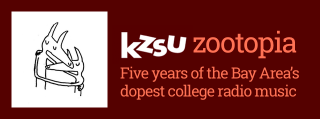
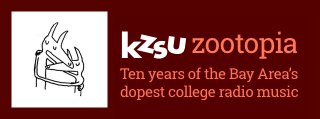
minor updates    - new header images    - clicking on header goes to main kzsu page    - add ability to spoof Zookeeper's onnow feed for testing

diff --git a/server/templates/index.html b/server/templates/index.html
@@ -76,6 +76,10 @@ div.control-container > h4 {
   border: 0px;
 }
 
+#image-header:hover {
+  cursor: pointer;
+}
+
 .is-paused {
   background-image: url("/images/play_button.png");
 }
@@ -168,8 +172,10 @@ div.control-container > h4 {
 <!-- <button onclick='checkSongs()'>Check Songs</button></br> -->
 
 <div class='top-container'>
-    <header>
-        <img id='current-song' alt="Current Song" src="/images/current-song.jpg">
+    <header id='image-header'>
+        <a href="#'>
+            <img id='current-song' alt="Current Song" src="/images/current-song.jpg">
+        </a>
     </header>
  
     <audio id='audio-player' class='audio_volume_only preload='none'>
@@ -198,6 +204,9 @@ div.control-container > h4 {
 </div>
 
 <script>
+document.getElementById('image-header').addEventListener('click', function(event) {
+    location.assign("http://kzsu.stanford.edu")
+});
 document.getElementById('play-but').addEventListener('click', function(event) {
     srcUrl = "http://171.66.118.110:8080/kzsu-3-128.mp3";
     let player = document.getElementById('audio-player');

diff --git a/server/zootopia.py b/server/zootopia.py
@@ -17,21 +17,19 @@ class Song(object):
         ret_val = {'date':self.date.strftime("%H:%M"), 'artist':self.artist, 'title':self.title}
         return ret_val
 
-
-
 def add_test_songs():
     song = Song('Parker Millsap', 'very last day', )
     playlist.appendleft(song)
 
-    song = Song('The Beatles', 'Come Together wwwwww wwww www xxxxx wwww',)
+    song = Song('The Beatles', 'Come Together',)
     playlist.appendleft(song)
 
-    for i in range(0, 5):
-        song = Song('very long artist name with long last name_' + str(i),
-                    'very long title name with extra long suffix_' + str(i))
-        playlist.appendleft(song)
+#    for i in range(0, 5):
+#        song = Song('very long artist name with long last name_' + str(i),
+#                    'very long title name with extra long suffix_' + str(i))
+#        playlist.appendleft(song)
 
-#add_test_songs()
+add_test_songs()
 
 render = web.template.render('templates/')
 
@@ -39,7 +37,9 @@ urls = (
     '/', 'index',
     '/logsong', 'logsong',
     '/songs', 'songs',
-    '/images/(.*)', 'images' #this is where the image folder is located....
+    '/images/(.*)', 'images', #this is where the image folder is located....
+    '/zktest', 'zktest',
+    '/zkonnow', 'zkonnow',
 )
 
 class index:
@@ -98,6 +98,63 @@ class logsong:
             logsong.current_minutes = new_minutes
 
         return 'success'
+
+# the following code spoofs Zookeeper's onnow track feature. it is used to test other
+# servers that use this info, eg the main station web site. 
+# TODO: move this into a dedicated controller.
+zk_tracknum = 0
+zk_tracks = []
+
+class ZkShow(object):
+    def __init(self, name, airname, id, tracks):
+        self.name = name
+        self.airname = airname
+        self.id = id
+        self.tracks = tracks
+
+class ZkTrack(object):
+    def __init__(self, artist, track, album, label, tag):
+        self.artist = artist
+        self.track = track
+        self.label = label
+        self.album = album
+        self.tag = tag
+
+    def toXML(self):
+        xml= '<track artist="{0}" track="{1}" label="{2}" album="{3}" tag="{4}" />'.\
+               format(self.artist, self.track, self.label, self.album, self.tag)
+        return xml
+
+def add_zk_songs():
+    zk_tracks.append(ZkTrack('Beatles', 'Joe Joe', 'Revolver', 'Columbia', '12345'))
+    #zk_show = ZkShow('Bone Yard', 'Mr. Bones', '1234', zk_tracks)
+
+class zktest:
+    def GET(self):
+        return render.zktest({})
+
+    def POST(self):
+        global zk_tracknum
+        trackName = "track_{0}".format(zk_tracknum)
+        zk_tracknum = zk_tracknum + 1
+        track = ZkTrack("Birds", trackName, 'SomeAlbum', 'SomeLabel', '3242342')
+        zk_tracks.append(track)
+
+class zkonnow:
+    def GET(self):
+        hdr = '<xml><getPlaylistsRs code="0" message="Success">'
+        show = '<show name="Music Genealogy" date="2019-10-27" time="1500-1800" airname="Trish McBee" id="39706">'
+        tracks = ''
+        params = web.input()
+        web.header('Content-Type', 'application/xml')
+        web.header('Access-Control-Allow-Origin', '*')
+        for track in zk_tracks:
+            tracks = tracks + track.toXML()
+
+        retval = hdr + show + tracks + '</show></getPlaylistsRs></xml>'
+        return retval
+
+add_zk_songs()
 
 
 if __name__ == "__main__":

diff --git a/README.md b/README.md
@@ -9,7 +9,8 @@ most recently played Zootopia tracks. Its input is provided by the RadioLogik
 DJ app using its publish feature to send the track info to the app server
 via HTTP GET requests. The app stores the most recent N tracks in memory 
 (no presistance yet) and uses it to build a web page that displays them
-to users.
+to users. The production version of this application can be found at 
+http://kzsu.rocks. It is deployed on a Mac in the Neil Diamond center.
 
 1) Configuring RadioLogik to publish to web app
 Radiologik must be configured to push each song to the web app. This is done
